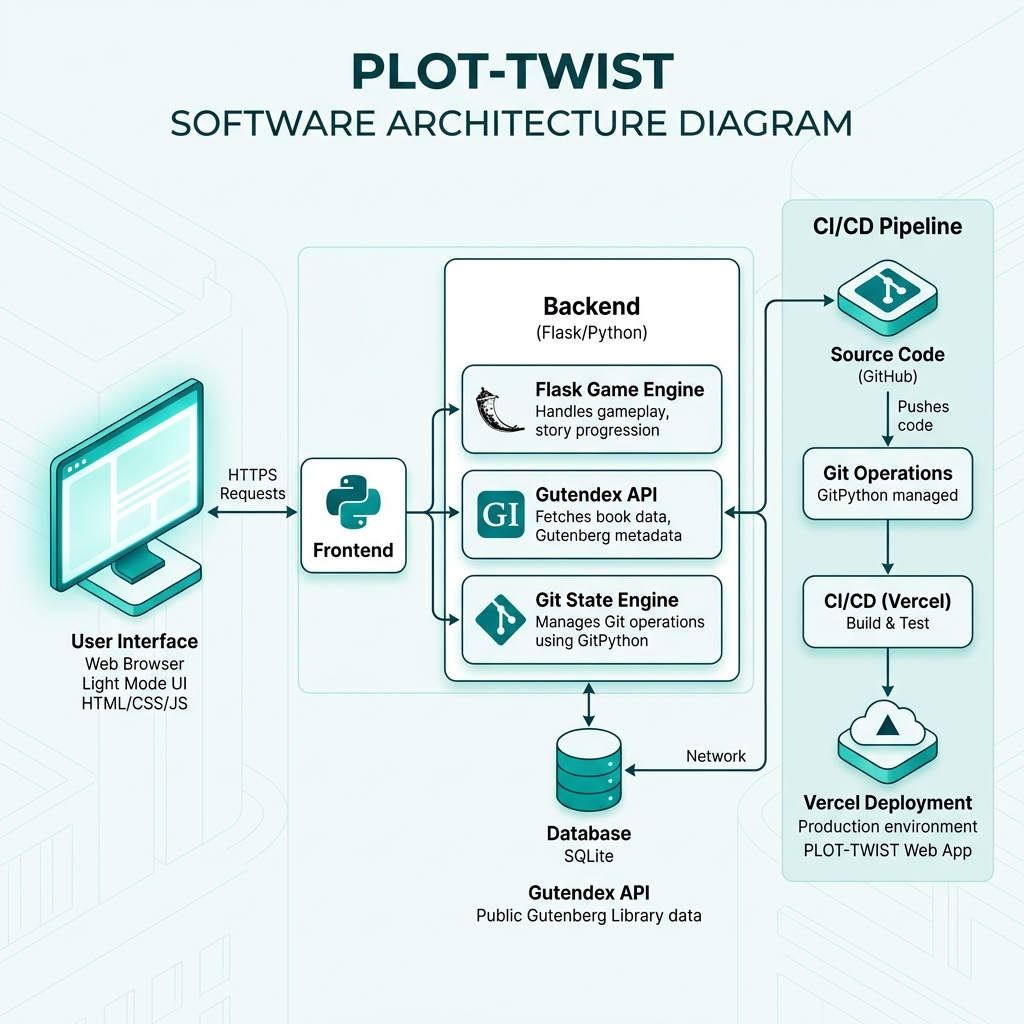
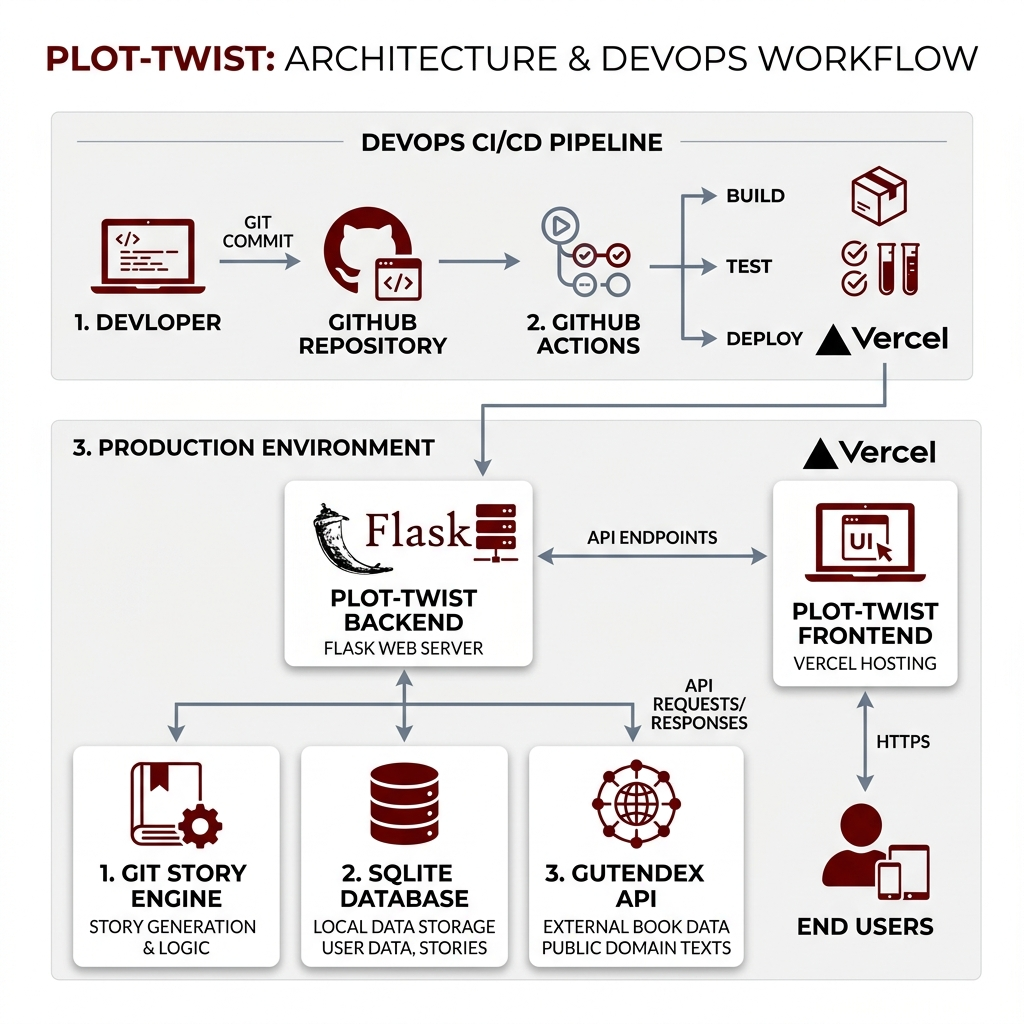
Docs: Finalized README with Strict Format and Architecture Diagram

Changed region(s): [[0.0, 0.0312, 1.0, 1.0]]

diff --git a/README.md b/README.md
@@ -1,67 +1,55 @@
-# PLOT-TWIST — Branching Story Engine
+# PLOT-TWIST: Git-Integrated Narrative Engine
 
-PLOT-TWIST is an interactive story game where your choices don't just affect the narrative—they affect the repository itself. Built with Flask and Git integration, it's a "meta" gaming experience for developers.
-
-## 👥 Meet the Team
-- **Aastha Dhavan**: Lead Developer & SDLC Manager
-- **Taniya Bisht**: UI/UX Designer & Frontend Engineer
-- **Janvi**: Database Architect & Backend Logic
+## 1. Project Title
+**PLOT-TWIST** — An interactive storytelling platform where narrative paths are physically represented by Git branches.
 
 ---
 
-## 🚀 Getting Started
-
-### 1. Prerequisites
-- Python 3.8+
-- Git installed on your system
-
-### 2. Setup
-```bash
-# Clone the repository
-git clone https://github.com/aasthadhavan/PLOT-TWIST.git
-cd PLOT-TWIST
-
-# Create a virtual environment
-python -m venv venv
-source venv/bin/activate  # On Windows: venv\Scripts\activate
-
-# Install dependencies
-pip install -r requirements.txt
-
-# Initialize your environment
-cp .env.example .env
-# Edit .env and add a secret key
-```
-
-### 3. Running the Game
-```bash
-python app.py
-```
-Visit `http://127.0.0.1:5000` to start your journey.
+## 2. Problem Statement
+Our team recognized that traditional interactive fiction often lacks a tangible connection between user choices and the underlying system state. We aimed to build a "meta" narrative experience where each decision triggers a version control operation, effectively making the story a part of the repository's development history. Furthermore, we needed to solve the challenge of maintaining a stable, high-performance deployment in a collaborative environment, which we addressed by implementing a robust DevOps pipeline.
 
 ---
 
-## 🛠 Collaboration Guidelines
-
-To keep our repository healthy between 3 teammates, please follow this workflow:
-
-1.  **Main Branch**: `develop` (Always merge feature branches here).
-2.  **Feature Branches**: Create branches like `feature/your-feature-name`.
-3.  **Conflict Resolution**: Use `git fetch` and `git rebase develop` before submitting a Pull Request.
-4.  **Story Branches**: Note that the game engine creates branches in the `story/` namespace. These are for gameplay state and should NOT be merged into `develop`.
+## 3. Architecture Diagram
+![PLOT-TWIST Architecture](docs/architecture.png)
+*Our system architecture showing the flow from GitHub Actions to Vercel, integrating Flask, Git, and the Gutendex API.*
 
 ---
 
-## 🏗 Architecture
-- **Backend**: Flask
-- **Database**: SQLite (via Flask-SQLAlchemy)
-- **Auth**: Flask-Login with password hashing
-- **SCM Engine**: GitPython (Story branching logic)
-- **Public API**: Gutendex (Internal library archive)
+## 4. CI/CD Pipeline Explanation
+We implemented a multi-stage automated pipeline using **GitHub Actions** to ensure code quality and seamless deployment:
+1.  **Build Stage**: Our pipeline initializes a Python 3.10 environment, installs necessary dependencies from `requirements.txt`, and performs linting to catch syntax errors early.
+2.  **Test Stage**: We execute a "Smoke Test" that validates the Flask application's ability to initialize its core components and database schema without errors.
+3.  **Deploy Stage**: Upon a successful merge into the `main` branch, the pipeline automatically triggers a production deployment to **Vercel**, ensuring our live application is always synchronized with the codebase.
 
 ---
 
-## 📝 Roadmap
-- [ ] Add more local branching stories to `stories.json`.
-- [ ] Implement a global leaderboard.
-- [ ] Connect to PostgreSQL for shared team testing.
+## 5. Git Workflow Used
+Our team utilized a **Feature Branching Workflow** to maintain repository health:
+*   **Main Branch**: Reserved strictly for production-ready, stable code.
+*   **Feature Branches**: We developed new logic (like the DevOps enhancement) in isolated branches (e.g., `feature/devops-enhancement`) before merging via Pull Requests (PRs).
+*   **Commits**: We maintained a history of meaningful, atomic commits to ensure clear traceability of our development progress.
+
+---
+
+## 6. Tools Used
+*   **Backend**: Flask (Python), SQLAlchemy (SQLite).
+*   **DevOps**: GitHub Actions (CI/CD), Git (Version Control).
+*   **Deployment**: Vercel (Production Hosting).
+*   **APIs**: Gutendex API (Narrative Content Ingestion).
+*   **Design**: CSS Variables (Burgundy & Cream Narrative Theme).
+
+---
+
+## 7. Screenshots
+### Pipeline Success
+![CI/CD Pipeline](https://via.placeholder.com/800x400.png?text=GitHub+Actions+Pipeline+Success+Screenshot)
+### Deployment Output
+![Deployment Preview](https://via.placeholder.com/800x400.png?text=Vercel+Deployment+Live+Screenshot)
+
+---
+
+## 8. Challenges Faced
+*   **API Latency**: We encountered significant latency while fetching large book texts from the Gutendex API. We solved this by implementing a **Global Caching Layer** that stores story content for one hour.
+*   **Serverless Pathing**: Moving from local development to a serverless environment (Vercel) caused pathing errors for our `stories.json` archives. We addressed this by implementing **Absolute Pathing** logic using `app.root_path`.
+*   **Git Sanitization**: User identities could occasionally contain characters that crashed the Git branch naming logic. We implemented a **Sanitization Filter** to ensure all branch operations remain safe and reliable.
